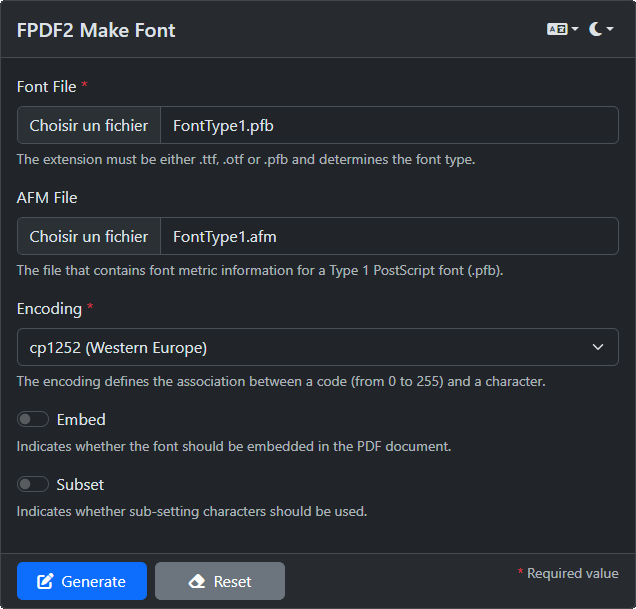
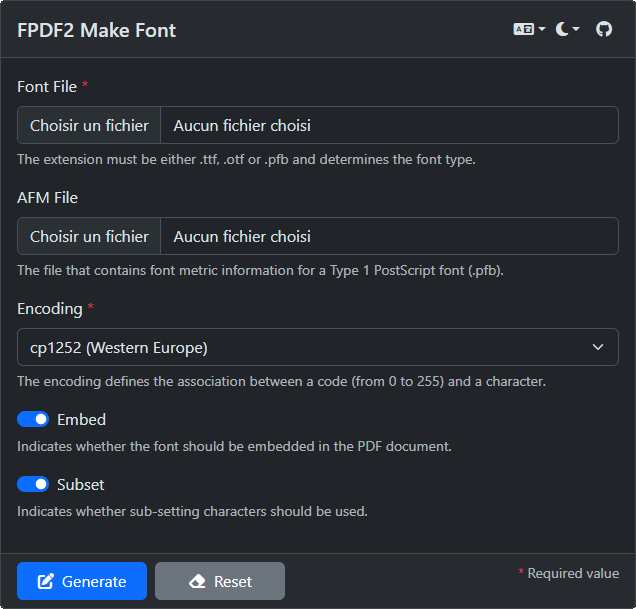
Save the locale parameter to cookie.

diff --git a/tests/Controller/LocaleControllerTest.php b/tests/Controller/LocaleControllerTest.php
@@ -13,6 +13,7 @@ declare(strict_types=1);
 
 namespace App\Tests\Controller;
 
+use Symfony\Bundle\FrameworkBundle\KernelBrowser;
 use Symfony\Bundle\FrameworkBundle\Test\WebTestCase;
 use Symfony\Component\HttpFoundation\Response;
 
@@ -24,10 +25,7 @@ class LocaleControllerTest extends WebTestCase
         $client->followRedirects();
         $client->request('GET', '/locale/en');
         self::assertResponseIsSuccessful();
-        $locale = $client->getRequest()
-            ->getSession()
-            ->get('_locale');
-        self::assertSame('en', $locale);
+        self::assertResponseIsLocale($client, 'en');
     }
 
     public function testLocaleFrench(): void
@@ -36,10 +34,7 @@ class LocaleControllerTest extends WebTestCase
         $client->followRedirects();
         $client->request('GET', '/locale/fr');
         self::assertResponseIsSuccessful();
-        $locale = $client->getRequest()
-            ->getSession()
-            ->get('_locale');
-        self::assertSame('fr', $locale);
+        self::assertResponseIsLocale($client, 'fr');
     }
 
     public function testLocaleInvalid(): void
@@ -48,5 +43,16 @@ class LocaleControllerTest extends WebTestCase
         $client->followRedirects();
         $client->request('GET', '/locale/fake');
         self::assertResponseStatusCodeSame(Response::HTTP_NOT_FOUND);
+    }
+
+    protected static function assertResponseIsLocale(KernelBrowser $client, string $expected): void
+    {
+        $cookies = $client->getRequest()->cookies;
+        $locale = $cookies->getString('_locale');
+        self::assertSame($expected, $locale);
+
+        $client->getRequest()->cookies;
+        $locale = $cookies->getString('_locale');
+        self::assertSame($expected, $locale);
     }
 }

diff --git a/src/Controller/LocaleController.php b/src/Controller/LocaleController.php
@@ -14,6 +14,7 @@ declare(strict_types=1);
 namespace App\Controller;
 
 use Symfony\Bundle\FrameworkBundle\Controller\AbstractController;
+use Symfony\Component\HttpFoundation\Cookie;
 use Symfony\Component\HttpFoundation\RedirectResponse;
 use Symfony\Component\HttpFoundation\Request;
 use Symfony\Component\Routing\Attribute\Route;
@@ -25,12 +26,22 @@ class LocaleController extends AbstractController
     #[Route(
         path: '/locale/{locale}',
         name: 'switch_locale',
-        requirements: ['locale' => '%supported_locales%']
+        requirements: ['locale' => '%supported_locales%'],
+        methods: Request::METHOD_GET
     )]
-    public function __invoke(string $locale, Request $request): RedirectResponse
+    public function __invoke(string $locale): RedirectResponse
     {
-        $request->getSession()->set(self::LOCALE_KEY, $locale);
+        $response = $this->redirectToRoute(IndexController::ROUTE_NAME);
+        $response->headers->setCookie($this->createCookie($locale));
 
-        return $this->redirectToRoute(IndexController::ROUTE_NAME);
+        return $response;
+    }
+
+    public function createCookie(string $locale): Cookie
+    {
+        return Cookie::create(self::LOCALE_KEY)
+            ->withExpires(new \DateTime('+1 year'))
+            ->withValue($locale)
+            ->withSecure();
     }
 }

diff --git a/src/Model/MakeFontQuery.php b/src/Model/MakeFontQuery.php
@@ -20,19 +20,21 @@ use Symfony\Component\Validator\Context\ExecutionContextInterface;
 
 class MakeFontQuery
 {
+    /**
+     * @param ?UploadedFile $fontFile the font file (.ttf, .otf, .pfb)
+     * @param ?UploadedFile $afmFile  the AFM file for a Type 1 PostScript font (.pfb).
+     * @param string        $encoding the font encoding
+     * @param bool          $embed    the embedded font
+     * @param bool          $subset   the sub-setting characters
+     */
     public function __construct(
-        /** The font file. */
         #[Assert\NotNull(message: 'query.fontFile')]
         public ?UploadedFile $fontFile = null,
-        /** The AFM file for a Type 1 PostScript font (.pfb). */
         public ?UploadedFile $afmFile = null,
-        /** The font encoding. */
         #[Assert\NotBlank]
         #[Assert\Choice(callback: [FontMaker::class, 'getEncodings'], message: 'query.encoding')]
         public string $encoding = FontMaker::DEFAULT_ENCODING,
-        /** The embedded font. */
         public bool $embed = true,
-        /** The sub-setting characters. */
         public bool $subset = true
     ) {
     }

diff --git a/src/EventSubscriber/LocaleListener.php b/src/EventSubscriber/LocaleListener.php
@@ -16,23 +16,18 @@ namespace App\EventSubscriber;
 use App\Controller\LocaleController;
 use fpdf\Translator;
 use Symfony\Component\EventDispatcher\Attribute\AsEventListener;
-use Symfony\Component\HttpFoundation\RequestStack;
 use Symfony\Component\HttpKernel\Event\RequestEvent;
 use Symfony\Component\HttpKernel\KernelEvents;
 
-readonly class LocaleSubscriber
+readonly class LocaleListener
 {
-    public function __construct(private RequestStack $requestStack)
-    {
-    }
-
     #[AsEventListener(event: KernelEvents::REQUEST, priority: 100)]
     public function onKernelRequest(RequestEvent $event): void
     {
         $request = $event->getRequest();
-        $session = $this->requestStack->getSession();
-        /** @phpstan-var string $locale */
-        $locale = $session->get(LocaleController::LOCALE_KEY, Translator::DEFAULT_LOCALE);
-        $request->setLocale($locale);
+        $locale = $request->cookies->getString(LocaleController::LOCALE_KEY, Translator::DEFAULT_LOCALE);
+        if (Translator::isAllowedLocale($locale)) {
+            $request->setLocale($locale);
+        }
     }
 }

diff --git a/src/Controller/IndexController.php b/src/Controller/IndexController.php
@@ -27,7 +27,11 @@ class IndexController extends AbstractController
     public const ROUTE_NAME = 'index';
     public const ROUTE_URL = '/';
 
-    #[Route(path: self::ROUTE_URL, name: self::ROUTE_NAME)]
+    #[Route(
+        path: self::ROUTE_URL,
+        name: self::ROUTE_NAME,
+        methods: [Request::METHOD_GET, Request::METHOD_POST],
+    )]
     public function __invoke(Request $request, MakeFontService $service): Response
     {
         $result = null;
@@ -48,9 +52,9 @@ class IndexController extends AbstractController
         ]);
     }
 
-    private function sendFile(string $file): BinaryFileResponse
+    private function sendFile(string $fileName): BinaryFileResponse
     {
-        return $this->file($file)
+        return $this->file($fileName)
             ->deleteFileAfterSend();
     }
 }

diff --git a/src/Model/MakeFontResult.php b/src/Model/MakeFontResult.php
@@ -17,6 +17,11 @@ use fpdf\MakeFontException;
 
 class MakeFontResult
 {
+    /**
+     * @param ?string            $fileName  the generated file (.php or .zip)
+     * @param ?string            $content   the generated content
+     * @param ?MakeFontException $exception the exception
+     */
     public function __construct(
         public ?string $fileName = null,
         public ?string $content = null,

diff --git a/importmap.php b/importmap.php
@@ -33,13 +33,13 @@ return [
         'version' => '8.0.13',
     ],
     'bootstrap' => [
-        'version' => '5.3.5',
+        'version' => '5.3.6',
     ],
     '@popperjs/core' => [
         'version' => '2.11.8',
     ],
     'bootstrap/dist/css/bootstrap.min.css' => [
-        'version' => '5.3.5',
+        'version' => '5.3.6',
         'type' => 'css',
     ],
 ];

diff --git a/src/Service/MakeFontService.php b/src/Service/MakeFontService.php
@@ -23,6 +23,9 @@ use Symfony\Component\Filesystem\Path;
 use Symfony\Component\HttpFoundation\File\File;
 use Symfony\Component\HttpFoundation\File\UploadedFile;
 
+/**
+ * Service to parse a font query and generate a font result.
+ */
 readonly class MakeFontService
 {
     public function __construct(

diff --git a/config/services.php b/config/services.php
@@ -20,6 +20,7 @@ return static function (ContainerConfigurator $container): void {
     $services->defaults()
         ->autowire()
         ->autoconfigure();
+
     $services->set(FontMaker::class, FontMaker::class);
 
     $path = __DIR__ . '/../src/';

diff --git a/config/packages/framework.php b/config/packages/framework.php
@@ -30,6 +30,7 @@ return static function (FrameworkConfig $framework): void {
 
     $framework->csrfProtection()
         ->enabled(true);
+
     $framework->form()
         ->csrfProtection()
         ->enabled(true)
